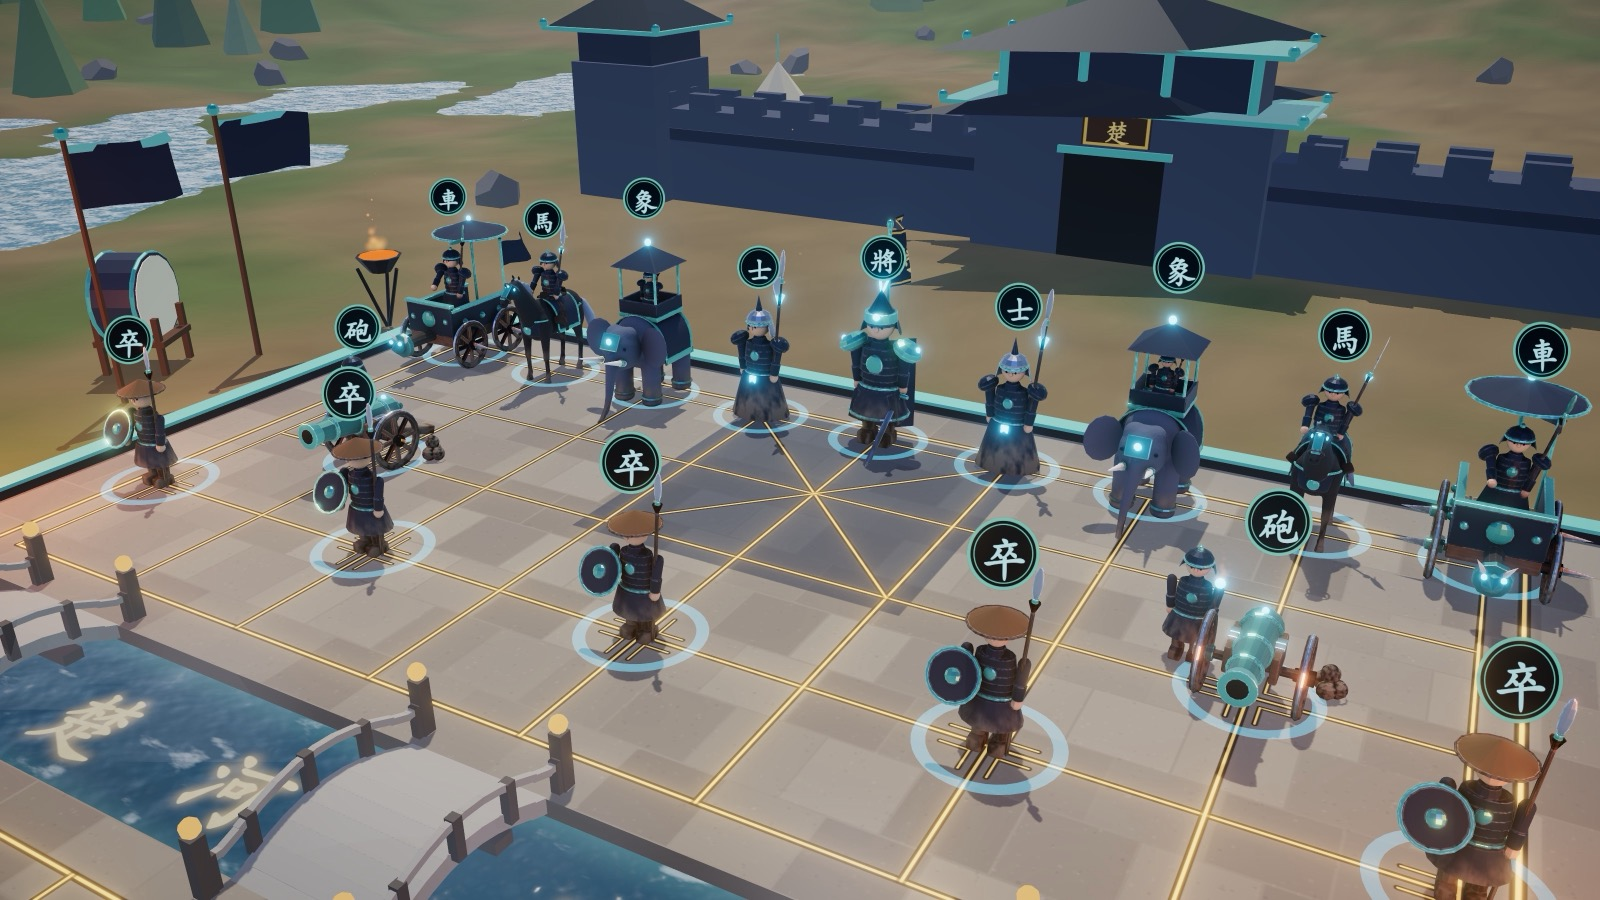
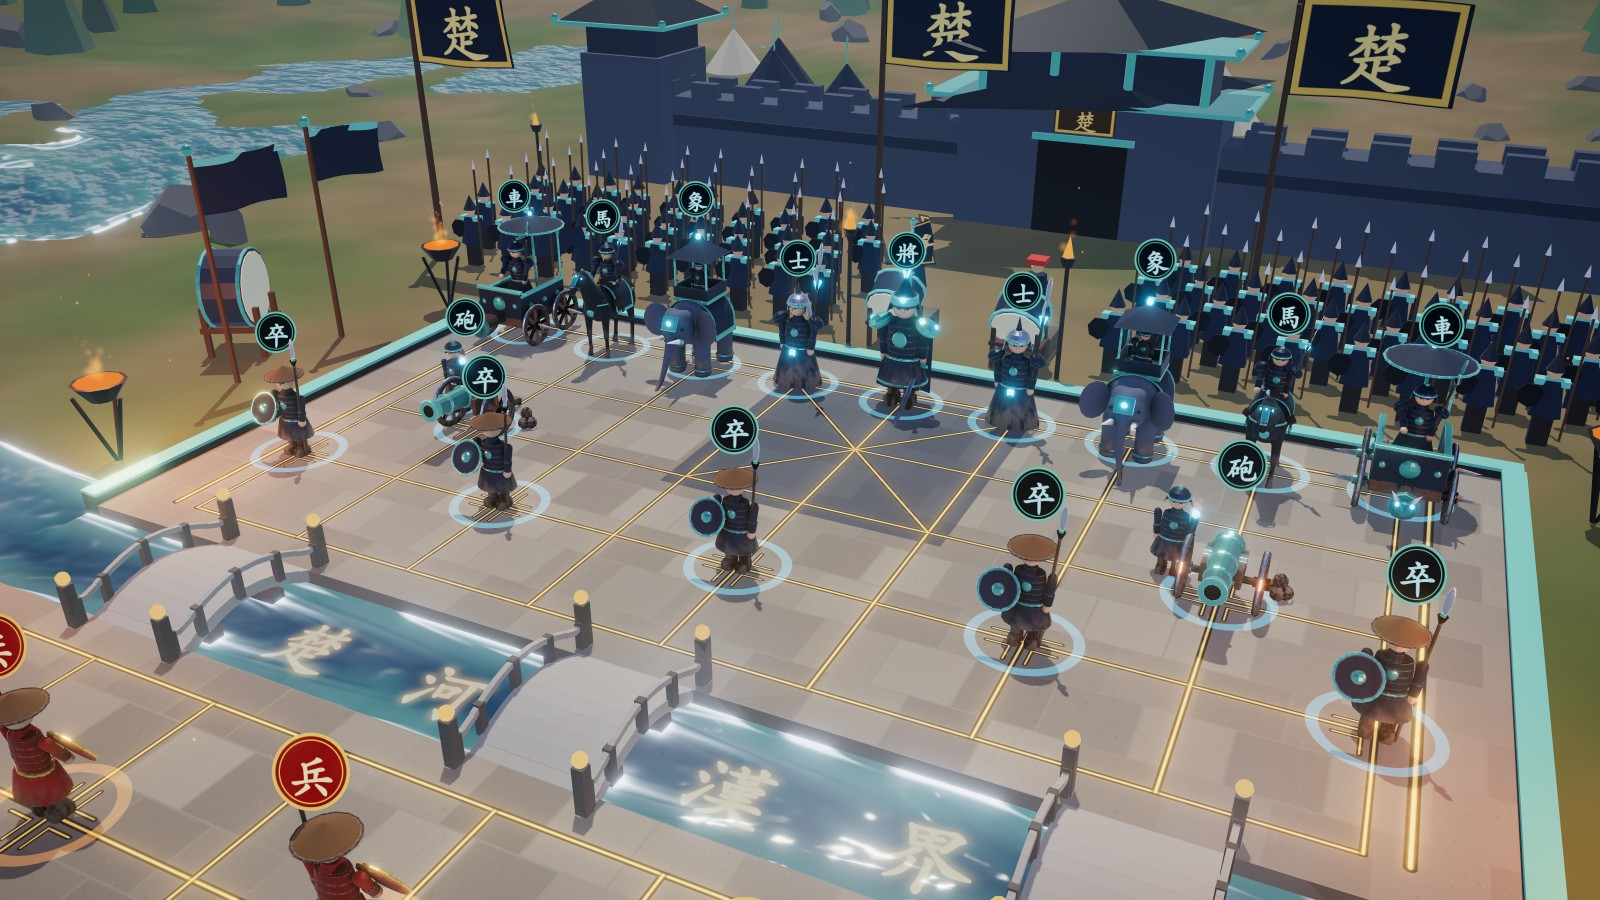
README: new gallery and grouped highlights (#19)
* README: new gallery with the river and the reserves; grouped highlights

Re-shoot the gallery on the current build, group the highlights into
the battle, the game, and replay and share, order the file table by
layer and trim the debug hook listing. Ignore agent worktrees.

* README: avoid a one-word last line

* README: tighten three sentences that left one-word last lines

* README: one-line quality note

---------

diff --git a/README.md b/README.md
@@ -31,12 +31,12 @@ the seven unit models are generated by a Blender script that ships in this repos
 
 <table>
   <tr>
-    <td width="50%"><img src="docs/shots/army-red.jpg" alt="The red army drawn up at noon"></td>
-    <td width="50%"><img src="docs/shots/army-black.jpg" alt="The black army drawn up at noon"></td>
+    <td width="50%"><img src="docs/shots/army-red.jpg" alt="The red army and its reserves before the gate"></td>
+    <td width="50%"><img src="docs/shots/army-black.jpg" alt="The black army and its reserves before the gate"></td>
   </tr>
   <tr>
-    <td width="50%"><img src="docs/shots/crush.jpg" alt="A war elephant comes down on a chariot"></td>
-    <td width="50%"><img src="docs/shots/fallen.jpg" alt="A soldier falls: a pillar of light and his glyph rising"></td>
+    <td width="50%"><img src="docs/shots/crush.jpg" alt="A war elephant rears over a chariot"></td>
+    <td width="50%"><img src="docs/shots/ford.jpg" alt="A chariot fords the river, axle-deep"></td>
   </tr>
   <tr>
     <td colspan="2"><img src="docs/shots/storm.jpg" alt="A check brings storm clouds, lightning and rain"></td>
@@ -45,53 +45,58 @@ the seven unit models are generated by a Blender script that ships in this repos
 
 ## Highlights
 
-- **Full rules.** Hobbled horses, blocked elephant eyes, cannon screens, palace limits, the river, the
-  flying general, no moving into check. Checkmate and stalemate both lose. Threefold repetition is a
-  draw unless one side repeats only by checking (that side loses); 120 plies without a capture is a
-  draw. Undo, restart, a move list in traditional notation and captured-piece trays.
-- **Three modes.** Two players, red against the computer, or spectate. The AI is an iterative-deepening
-  alpha-beta search with a transposition table, quiescence, killer and history ordering, running in a
-  Web Worker so the picture never stalls while it thinks.
-- **Play a friend online.** Peer to peer over WebRTC, with no game server: send an invite link, paste
-  back the reply code, play. Each side checks every move the other sends against its own rules
-  engine. Draw offers, take-backs, resignation, rematches with colours swapped, and a fresh invite
-  resumes a game after a dropped connection.
-- **Openings and styles.** A small book of mainstream openings (中炮 against 屏风马, 顺炮, 列炮 and
-  反宫马; 飞相局, 仙人指路, 起马局, 过宫炮), mirrored, answered instantly and announced by name.
-  Each computer side plays 均衡, 猛攻 or 稳健: its own evaluation terms, draw contempt and taste in
-  openings. Spectator games pair two styles at random.
-- **Commentary.** A short line on notable moments, judged from the search: a sacrifice it likes,
-  a turn of fortune, a clear edge, a level trade, a mate found (三步之内，胜负已分).
+### The battle
+
 - **Seven troop types.** General, guard, war elephant, cavalry, war wagon, cannon and infantry, each
   with its own way of moving, bracing, attacking and dying.
-- **Duels.** Every attacker has three techniques, chosen by whether it is fighting foot soldiers, beasts
-  or machines (21 in total). Each of the 36 legal attacker/victim pairings has its own title card.
-- **Capture cinematics.** Letterbox, close-up camera that follows the victim, hit-stop, bullet-time
-  orbit, an impact frame with speed lines, screen shake and tilt-shift blur.
-- **A battlefield that remembers.** Craters, soot, cracks, hoof prints and wheel ruts accumulate;
-  wreckage stays where it lands, weapons stick in the ground, blast sites smoulder, and the armies get
-  dustier as the game goes on. Undo rolls all of it back.
+- **Duels.** Every attacker has three techniques, chosen by whether it is fighting foot soldiers,
+  beasts or machines (21 in total). Each of the 36 attacker and victim pairings has its own title card.
+- **Capture cinematics.** Letterbox, a close-up camera that follows the victim, hit-stop, a
+  bullet-time orbit, an impact frame with speed lines, screen shake and tilt-shift blur.
+- **A battlefield that remembers.** Craters, soot, cracks, hoof prints and wheel ruts accumulate.
+  Wreckage stays where it lands, blast sites smoulder, and the armies get dustier as the game goes
+  on. Undo rolls all of it back.
 - **A river you can wade.** 楚河漢界 is real water: it flows, darkens in the deep channel, foams at
-  the banks and round the bridge piers, glitters at noon and turns choppy in a storm. Troops crossing
-  off the bridges wade in, slowed and splashing, soldiers thigh-deep and horses to the belly, and
-  bodies thrown into it go under with a splash.
-- **Armies that watch.** Behind each back rank wait the reserves: ranks of spearmen, war drums and
-  great banners. They cheer a capture with a drum roll, beat the drums through a check and erupt
-  at the mate. Morale follows the material on the board: a losing army thins, stoops and lowers its
-  banners while its torches gutter; at the end it kneels or breaks for the gate.
-- **Weather driven by the game.** Dawn mist at the opening, noon in the middlegame, a red dusk in the
-  endgame. A check brings storm clouds and lightning; the end of the game brings rain and wet stone.
-- **Replay and share.** Every game is a compact record (about one character per move). Copy it as
-  a link or as text; opening the link replays the game. Step, scrub, or play it back at 1×, 2× or
-  4×, duels included.
-- **Highlight reel.** Every move is scored (captures by value, checks, exchanges, sacrifices, king
-  hunts, the mate) and the best moments are cut into a reel of about a minute, each with a title
-  card and the full duel camera. Export it as an MP4 or WebM video, sound included.
-- **Classic games, restaged.** Seven lines from the Ming and Qing manuals 橘中秘 (1632) and
-  梅花譜, among them 棄馬十三著, play themselves with each move named as it lands. Each is the
-  manual's text in the traditional notation, read by a parser for it, with its sources cited.
+  the banks, glitters at noon and turns choppy in a storm. Troops crossing off the bridges wade in,
+  slowed and splashing.
+- **Armies that watch.** Behind each back rank wait the reserves: spearmen, war drums and great
+  banners. They cheer a capture, drum through a check and erupt at the mate. A losing army thins
+  and stoops.
+- **Weather driven by the game.** Dawn mist at the opening, noon in the middlegame, a red dusk in
+  the endgame. A check brings storm clouds and lightning; the end brings rain and wet stone.
 - **Sound without samples.** Every effect is synthesised with WebAudio, and an adaptive score of war
   drums, plucked zither and a low ostinato layers up with the tension.
+
+### The game
+
+- **Full rules.** Hobbled horses, blocked elephant eyes, cannon screens, palace limits, the river,
+  the flying general, no moving into check. Checkmate and stalemate both lose. Threefold repetition
+  is a draw unless one side repeats only by checking (that side loses); 120 plies without a capture
+  is a draw.
+- **Three modes.** Two players, red against the computer, or spectate. The AI is an
+  iterative-deepening alpha-beta search with a transposition table, quiescence, and killer and
+  history ordering, running in a Web Worker so the picture never stalls while it thinks.
+- **Openings and styles.** A small book of mainstream openings, answered instantly and announced by
+  name. Each computer side plays 均衡, 猛攻 or 稳健, with its own evaluation, draw contempt and
+  taste in openings.
+- **Commentary.** A short line on notable moments, judged from the search: a sacrifice, a turn of
+  fortune, a mate found (三步之内，胜负已分).
+- **Play a friend online.** Peer to peer over WebRTC, with no game server: send an invite link,
+  paste back the reply code, play. Each side checks every move the other sends against its own
+  rules engine.
+- **Phones too.** Touch gestures, layouts for portrait and landscape, and three quality tiers
+  picked from the device.
+
+### Replay and share
+
+- **Records and links.** Every game is a compact record, about one character per move. Copy it as a
+  link or as text; opening the link replays the game. Step, scrub, or play it back at 1×, 2× or 4×.
+- **Highlight reel.** Every move is scored and the best moments are cut into a reel of about a
+  minute, each with a title card and the full duel camera. Export it as an MP4 or WebM video, sound
+  included.
+- **Classic games, restaged.** Seven lines from the Ming and Qing manuals 橘中秘 (1632) and 梅花譜,
+  among them 棄馬十三著, play themselves with each move named as it lands. Their sources are cited
+  in the code.
 
 ## Run it
 
@@ -133,8 +138,7 @@ a game in traditional notation (炮二平五 马8进7 …) pastes too.
 导出视频 records the reel as it plays (at least 1280 pixels on the long side, at most 1080p) and
 offers the file to download or, where the browser can, to share.
 
-Quality is picked from the device on first load, then from your choice.
-Low and mid cap resolution, shadows and effects and use lighter models.
+Quality follows the device at first, then your choice. Lower tiers use lighter models.
 
 On a phone or tablet:
 
@@ -158,7 +162,7 @@ In a game 悔棋 asks the opponent to take back your last move and 新局 opens 
 either player can open the card and 续弈此局 to invite the other back into the same position.
 Replay, the reel and the classics are off during an online game; leave it to use them.
 
-Honest limits: the peers connect directly, so each sees the other's IP address, and a public STUN
+Limits: the peers connect directly, so each sees the other's IP address, and a public STUN
 server (Google's and Cloudflare's) is asked for your public address. There is no TURN
 relay, so two players behind symmetric NATs (some mobile and office networks) cannot connect.
 
@@ -167,38 +171,35 @@ relay, so two players behind symmetric NATs (some mobile and office networks) ca
 | File | Purpose |
 | --- | --- |
 | `src/engine.ts` | Pure rules engine, no rendering dependencies |
+| `src/ai.ts`, `src/ai.worker.ts` | Search engine and playing styles; its worker entry |
+| `src/book.ts` | Opening book, compiled to position hashes, and opening names |
+| `src/commentary.ts` | When an AI move is worth a remark, and the lines |
 | `src/record.ts` | Game records: compact link form, readable text, validation |
-| `src/netgame.ts` | Online protocol: validation, resync, offers, rematch (pure, tested) |
-| `src/sdp.ts` | Invite and reply codes: SDP packed to ~110 URL-safe characters |
-| `src/net.ts` | WebRTC transport: one data channel, manual signalling, STUN |
-| `src/online.ts` | The 联机 card, connection chip, prompts, session lifecycle |
 | `src/notation.ts` | Traditional move notation (炮二平五) read back into moves |
 | `src/classics.ts` | Classic games from 橘中秘 and 梅花譜, with their sources |
 | `src/reel.ts` | Move scoring and clip selection for the highlight reel |
 | `src/capture.ts` | Canvas and audio recording of the reel, with burned-in titles |
-| `src/ai.ts`, `src/ai.worker.ts` | Search engine and playing styles; its worker entry |
-| `src/book.ts` | Opening book, compiled to position hashes, and opening names |
-| `src/commentary.ts` | When an AI move is worth a remark, and the lines |
-| `tools/match.ts` | Style against balanced, self-play match (slow, not in `npm test`) |
+| `src/netgame.ts` | Online protocol: validation, resync, offers, rematch |
+| `src/sdp.ts` | Invite and reply codes: SDP packed to ~110 URL-safe characters |
+| `src/net.ts`, `src/online.ts` | WebRTC transport; the 联机 card and session lifecycle |
 | `src/core.ts` | Game clock, tweens, easing, board ↔ world mapping |
-| `src/world.ts` | Terrain, water, sky, board terraces, props, lighting, weather |
-| `src/units.ts` | Unit wrapper, procedural fallback models, bindings for authored models |
-| `src/models.ts` | Loader and skeleton rebuild for authored models |
-| `src/choreo.ts` | Move / brace / attack / death choreography and the duel title table |
+| `src/world.ts` | Terrain, sky, board terraces, props, lighting, weather |
 | `src/river.ts` | Water shader, ripple rings, wading splashes |
 | `src/armies.ts`, `src/morale.ts` | Reserves, drums, banners; morale from material |
-| `src/fx.ts` | Particles, shockwaves, slashes, light pillars, debris |
-| `src/scars.ts` | Persistent decals, wreckage and smouldering craters |
-| `src/camera.ts` | Camera director: orbit, auto-rotate, cinematics, spectator mode, shake |
+| `src/units.ts`, `src/models.ts` | Units; loader and skeleton rebuild for authored models |
+| `src/choreo.ts` | Move, brace, attack and death choreography; the duel title table |
+| `src/fx.ts`, `src/scars.ts` | Particles, debris, light pillars; persistent battlefield damage |
+| `src/camera.ts` | Camera director: orbit, touch, cinematics, spectator mode |
 | `src/audio.ts`, `src/music.ts` | Synthesised effects, rain and thunder; adaptive score |
+| `src/quality.ts` | Quality tiers, first-load choice, switching |
 | `src/hud.ts`, `src/style.css` | DOM overlay |
 | `src/main.ts` | Renderer, post-processing, input, game flow |
-| `src/quality.ts` | Quality tiers, first-load choice, switching |
 | `tools/blender/build.py` | Generates the seven unit models |
 | `tools/blender/lod.mjs` | Decimated `_mid` / `_lo` variants for the lower tiers |
+| `tools/match.ts` | Self-play match between styles (slow, not in `npm test`) |
 
-The post chain is MSAA → bloom → a grading pass (tilt-shift, chromatic fringe, impact frame,
-desaturation, vignette) → ACES tone mapping.
+Post chain: MSAA → bloom → grading (tilt-shift, chromatic fringe, impact frame, desaturation,
+vignette) → ACES tone mapping.
 
 For scripted testing, `window.__game` exposes a small debug hook:
 
@@ -206,32 +207,21 @@ For scripted testing, `window.__game` exposes a small debug hook:
 __game.load(fen)                   // set up a position
 __game.move('h2e2')                // resolves when the animation ends
 __game.setMode('watch')            // 'pvp' | 'pve' | 'watch'
-__game.style('b', 'aggressive')    // 'balanced' | 'aggressive' | 'solid'; style() reads both
-__game.book()                      // book moves here: { move, weight, names }
-__game.state.ai                    // last AI move: { score, depth, book, opening, ... }
+__game.style('b', 'aggressive')    // 'balanced' | 'aggressive' | 'solid'
 __game.weather(time, storm, rain)  // pin the weather; no arguments releases it
-__game.morale()                    // { r, b } in 0..1, from the material on the board
-__game.cheer('r')                  // make one side's reserves cheer
-__game.armies                      // the reserves module, for inspection
 __game.record()                    // compact record of the game, as in #g= links
 __game.replay(text?)               // replay a record, or the current game
-__game.replayTo(ply)               // jump to a ply; replayExit() leaves
-__game.classics()                  // titles of the classic games
-__game.classic(i)                  // replay one: title card, autoplay, captions
-__game.highlights()                // clips of the game: { ply, start, end, reason, ... }
-__game.reel()                      // play the highlight reel; reelExit() leaves
+__game.classic(i)                  // replay a classic game
+__game.reel()                      // play the highlight reel
 await __game.reelExport()          // record it: { size, mime, durationMs, ... }
-__game.fine(false)                 // switch to the code-built models
-await __game.quality('low')        // 'low' | 'mid' | 'high'; no argument returns the tier
+await __game.quality('low')        // 'low' | 'mid' | 'high'
 await __game.net.host('r')         // open a room: resolves to the invite link
-await __game.net.join(invite)      // resolves to the reply code
-await __game.net.accept(reply)     // the host connects
-__game.net.state                   // { phase, role, side, connected, latency, ply, ... }
-__game.net.send(obj)               // raw message to the peer (for abuse tests)
-__game.net.leave()                 // close the connection and leave net mode
 __game.manual = true               // stop the frame loop, then step it yourself
 await __game.advance(seconds)
 ```
+
+The rest of the hook (`state`, `book`, `morale`, `highlights`, `net.join`, `net.accept` and more)
+is at the bottom of `src/main.ts`.
 
 ### Unit models
 
@@ -267,6 +257,8 @@ about 335k for a full board.
 - Spectator games are capped at 220 plies so two evenly matched engines cannot shuffle forever.
 - Online play has no relay server: symmetric NATs on both sides cannot connect.
 - Online play has been tested in Chromium only, between two tabs on one machine.
+- Video export has been tested in Chromium only.
+- Touch controls and the lower quality tiers have not been run on a real phone.
 
 ## License
 
